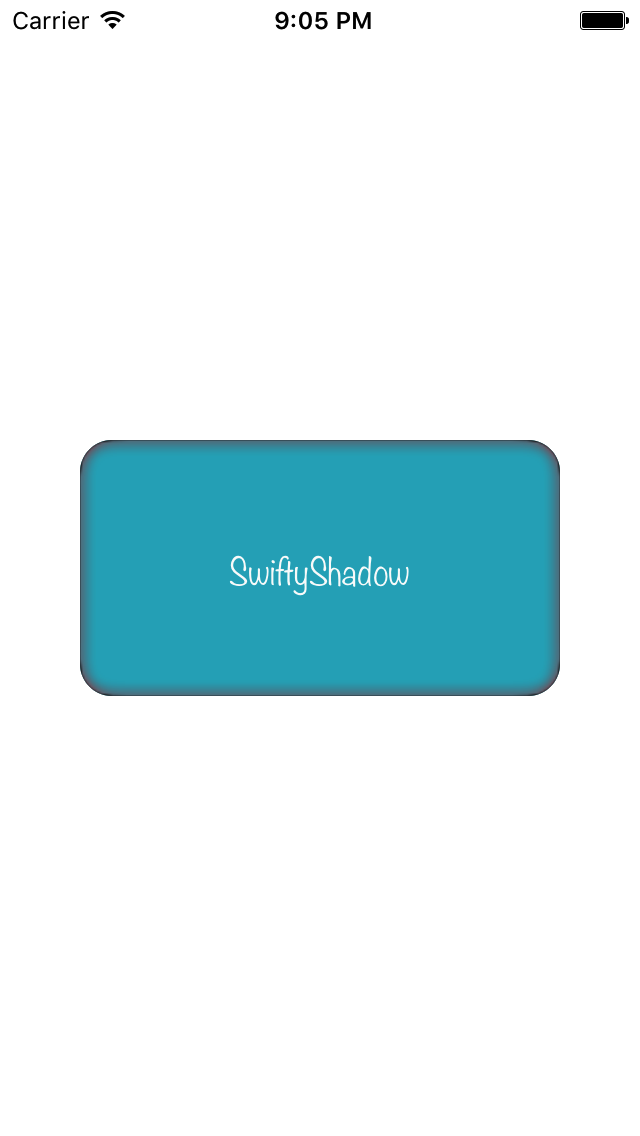
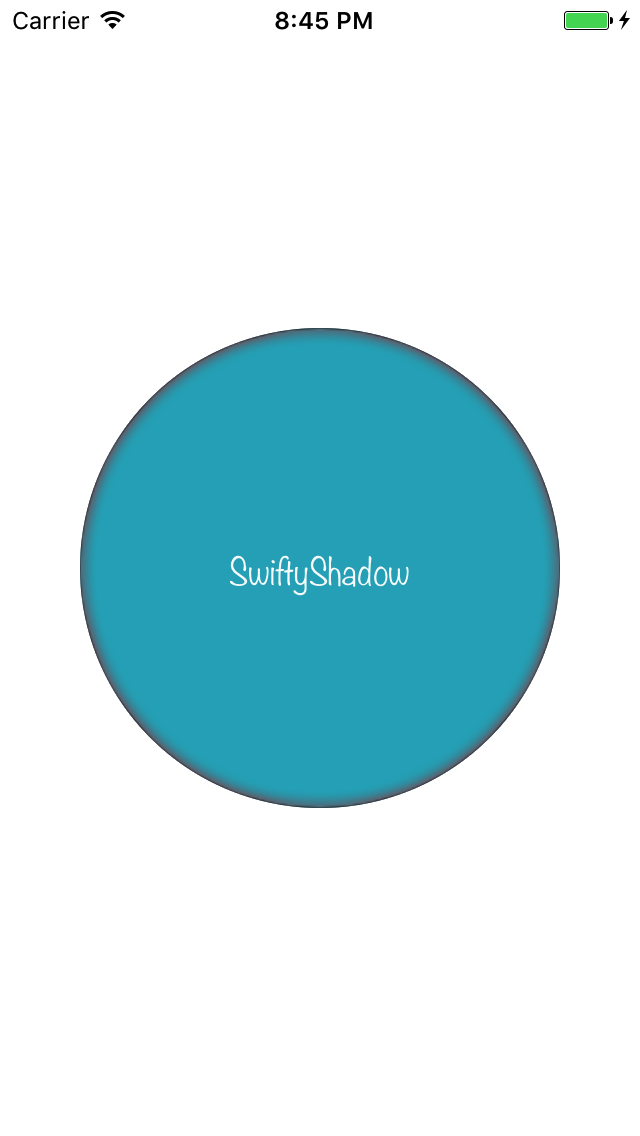
:art: Update screenshot & storyboard Update example project

diff --git a/SwiftyShadowExample/SwiftyShadowExample/ViewController.swift b/SwiftyShadowExample/SwiftyShadowExample/ViewController.swift
@@ -19,7 +19,7 @@ class ViewController: UIViewController {
         testView.shadowLayer.shadowColor = UIColor.red.cgColor
         testView.shadowLayer.shadowOpacity = 0.8
         testView.shadowLayer.shadowOffset = CGSize.zero
-        testView.cornerRadius = 16
+        testView.cornerRadius = 120
     }
 
     override func didReceiveMemoryWarning() {
